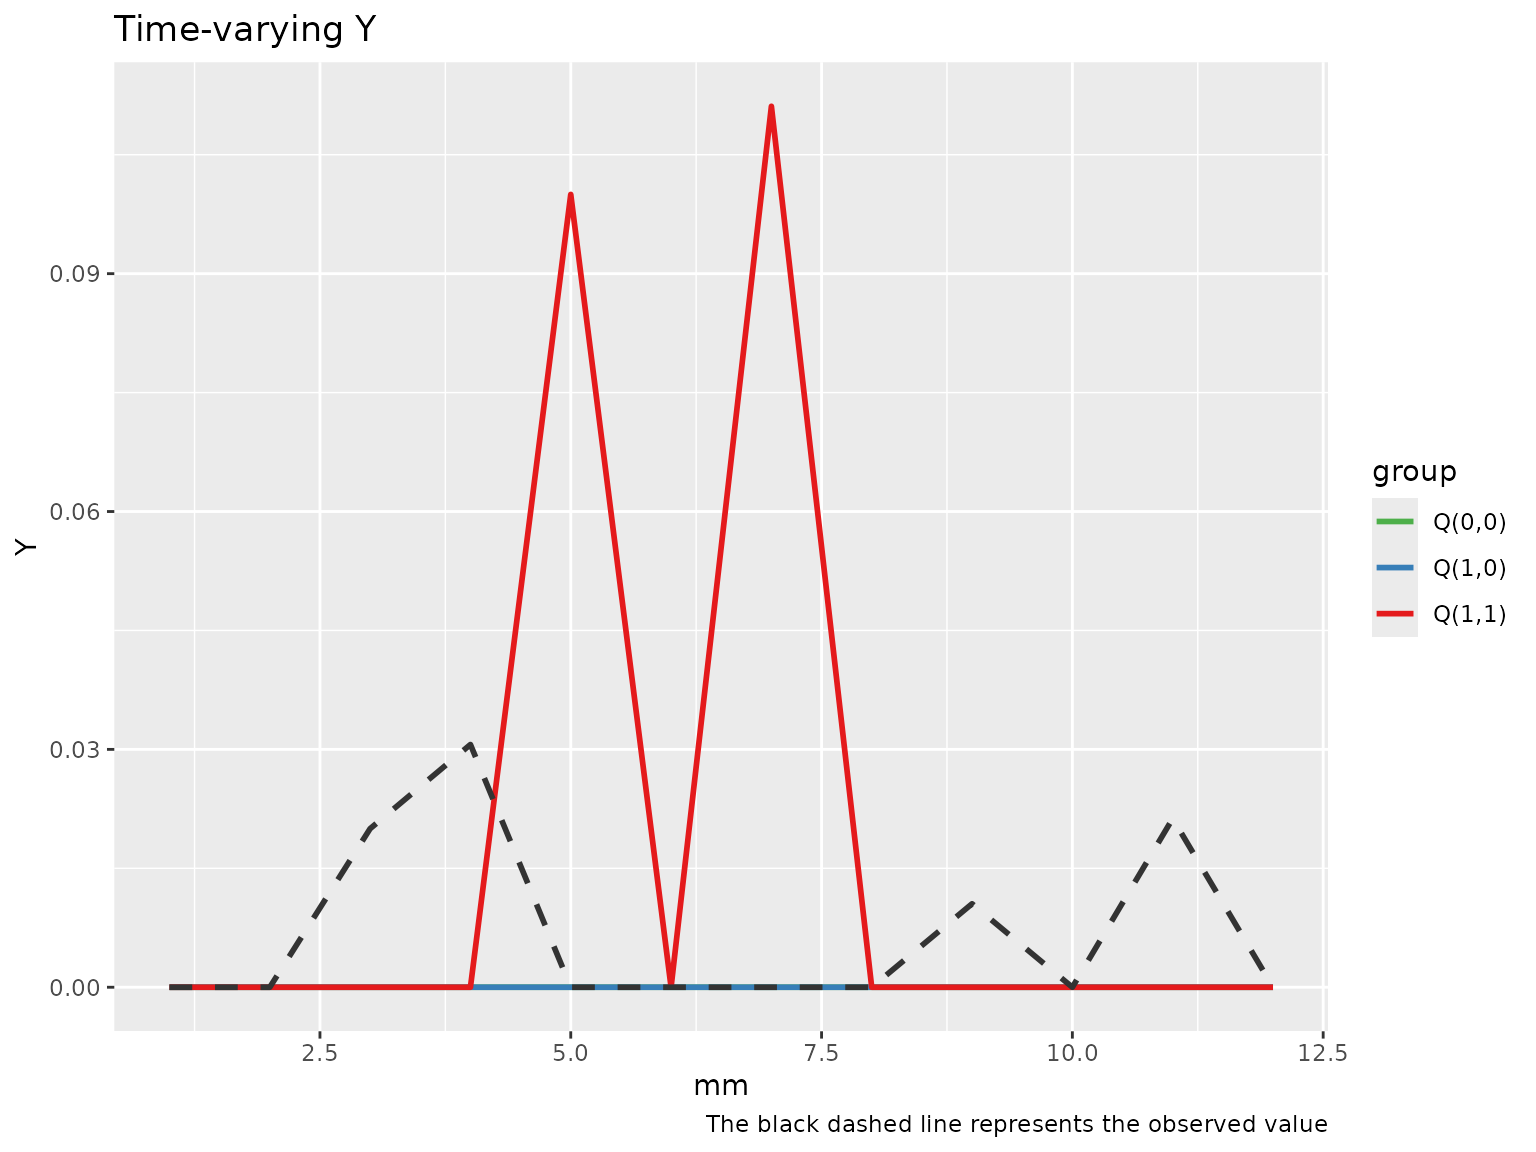
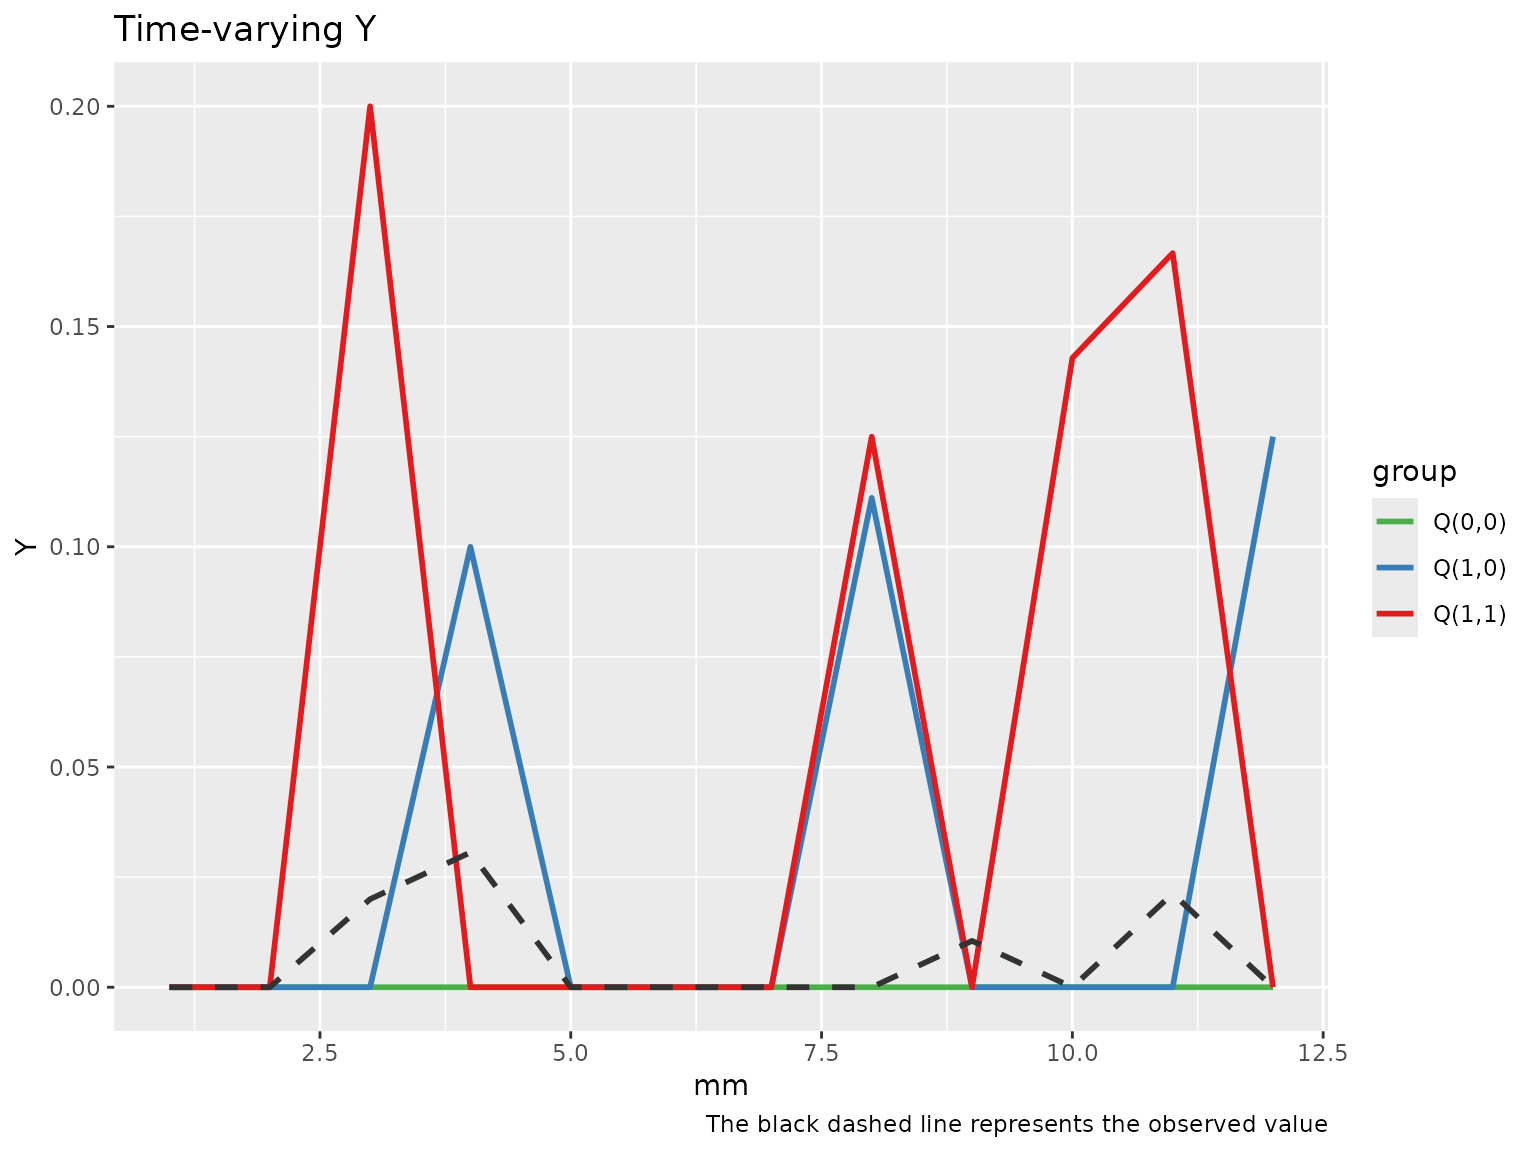
Deploying to gh-pages from @ causalepi/tvmedg@73244115857968024a8cc11e31e001a0058be521 🚀

diff --git a/articles/single_mediator.html b/articles/single_mediator.html
@@ -99,7 +99,14 @@ parallel computing using the <code>foreach</code> and
 <code>doParallel</code> packages to improve efficiency</p>
 <div class="sourceCode" id="cb1"><pre class="downlit sourceCode r">
 <code class="sourceCode R"><span><span class="kw"><a href="https://rdrr.io/r/base/library.html" class="external-link">library</a></span><span class="op">(</span><span class="va"><a href="https://causalepi.github.io/tvmedg/">tvmedg</a></span><span class="op">)</span></span>
-<span><span class="fu"><a href="https://rdrr.io/r/utils/head.html" class="external-link">head</a></span><span class="op">(</span><span class="va">sim_data</span><span class="op">)</span></span></code></pre></div>
+<span><span class="fu"><a href="https://rdrr.io/r/utils/head.html" class="external-link">head</a></span><span class="op">(</span><span class="va">sim_data</span><span class="op">)</span></span>
+<span><span class="co">#&gt;   id mm Ap Mp L1       L2        L3 Yp      age sex ow risk lastid</span></span>
+<span><span class="co">#&gt; 1  1  1  0  0  0 100.0000  80.00000  0 16.52949   0  0    0      0</span></span>
+<span><span class="co">#&gt; 2  1  2  0  0  0 125.1296 102.02885  0 16.52949   0  0    0      0</span></span>
+<span><span class="co">#&gt; 3  1  3  0  0  0 116.4990  98.99688  0 16.52949   0  0    0      0</span></span>
+<span><span class="co">#&gt; 4  1  4  0  0  0 131.9247 104.07117  0 16.52949   0  0    0      0</span></span>
+<span><span class="co">#&gt; 5  1  5  0  0  0 109.5959 103.24813  0 16.52949   0  0    0      0</span></span>
+<span><span class="co">#&gt; 6  1  6  0  0  0 124.2403  95.82793  0 16.52949   0  0    0      0</span></span></code></pre></div>
 <div class="section level3">
 <h3 id="point-estimates">Point estimates<a class="anchor" aria-label="anchor" href="#point-estimates"></a>
 </h3>
@@ -132,6 +139,9 @@ these arguments to model nonlinear effects. Lastly, we run the algorithm
 using 1000 Monte Carlo samples.</p>
 <div class="sourceCode" id="cb2"><pre class="downlit sourceCode r">
 <code class="sourceCode R"><span><span class="kw"><a href="https://rdrr.io/r/base/library.html" class="external-link">library</a></span><span class="op">(</span><span class="va"><a href="https://github.com/RevolutionAnalytics/doparallel" class="external-link">doParallel</a></span><span class="op">)</span></span>
+<span><span class="co">#&gt; Loading required package: foreach</span></span>
+<span><span class="co">#&gt; Loading required package: iterators</span></span>
+<span><span class="co">#&gt; Loading required package: parallel</span></span>
 <span></span>
 <span><span class="va">cl</span> <span class="op">&lt;-</span> <span class="fu"><a href="https://rdrr.io/r/parallel/makeCluster.html" class="external-link">makeCluster</a></span><span class="op">(</span><span class="fl">2</span><span class="op">)</span></span>
 <span><span class="fu"><a href="https://rdrr.io/pkg/doParallel/man/registerDoParallel.html" class="external-link">registerDoParallel</a></span><span class="op">(</span><span class="va">cl</span><span class="op">)</span></span>
@@ -156,6 +166,14 @@ using 1000 Monte Carlo samples.</p>
 <span>                   montecarlo <span class="op">=</span> <span class="fl">10</span>,</span>
 <span>                   boot <span class="op">=</span> <span class="cn">F</span>,</span>
 <span>                   parallel <span class="op">=</span> <span class="cn">TRUE</span><span class="op">)</span></span>
+<span><span class="co">#&gt; Q(a,a): 0.5 </span></span>
+<span><span class="co">#&gt; Q(a,a*): 0.3 </span></span>
+<span><span class="co">#&gt; Q(a*,a*): 0 </span></span>
+<span><span class="co">#&gt; Indirect (rIE): 0.2 </span></span>
+<span><span class="co">#&gt; Direct (rDE): 0.3 </span></span>
+<span><span class="co">#&gt; Total (rTE): 0.5 </span></span>
+<span><span class="co">#&gt; Proportional explain: 0.4 </span></span>
+<span><span class="co">#&gt; Total time elapsed: 4.710823 secs</span></span>
 <span><span class="fu"><a href="https://rdrr.io/r/parallel/makeCluster.html" class="external-link">stopCluster</a></span><span class="op">(</span><span class="va">cl</span><span class="op">)</span></span></code></pre></div>
 </div>
 <div class="section level3">
@@ -196,6 +214,14 @@ example, we run only 5 bootstrap iterations.</p>
 <span>                   nboot <span class="op">=</span> <span class="fl">5</span>,</span>
 <span>                   ci <span class="op">=</span> <span class="fl">.95</span>,</span>
 <span>                   parallel <span class="op">=</span> <span class="cn">TRUE</span><span class="op">)</span></span>
+<span><span class="co">#&gt; Q(a,a): 0.6 (0.06, 1) </span></span>
+<span><span class="co">#&gt; Q(a,a*): 0.6 (0.01, 1) </span></span>
+<span><span class="co">#&gt; Q(a*,a*): 0 (0, 0.55) </span></span>
+<span><span class="co">#&gt; Indirect (rIE): 0 (0, 0.73) </span></span>
+<span><span class="co">#&gt; Direct (rDE): 0.6 (-0.54, 1) </span></span>
+<span><span class="co">#&gt; Total (rTE): 0.6 (-0.48, 1) </span></span>
+<span><span class="co">#&gt; Proportional explain: 0 (0, 0.917) </span></span>
+<span><span class="co">#&gt; Total time elapsed: 19.87348 secs</span></span>
 <span><span class="fu"><a href="https://rdrr.io/r/parallel/makeCluster.html" class="external-link">stopCluster</a></span><span class="op">(</span><span class="va">cl</span><span class="op">)</span></span></code></pre></div>
 </div>
 <div class="section level3">
@@ -221,9 +247,11 @@ under each scenario.</p></li>
 <p><strong>Time-varying plot</strong></p>
 <div class="sourceCode" id="cb4"><pre class="downlit sourceCode r">
 <code class="sourceCode R"><span><span class="fu"><a href="https://rdrr.io/r/graphics/plot.default.html" class="external-link">plot</a></span><span class="op">(</span><span class="va">med_MtoL</span>, <span class="st">"tvY"</span><span class="op">)</span></span></code></pre></div>
+<p><img src="single_mediator_files/figure-html/unnamed-chunk-5-1.png" width="100%"></p>
 <p><strong>Cumulative plot</strong></p>
 <div class="sourceCode" id="cb5"><pre class="downlit sourceCode r">
 <code class="sourceCode R"><span><span class="fu"><a href="https://rdrr.io/r/graphics/plot.default.html" class="external-link">plot</a></span><span class="op">(</span><span class="va">med_MtoL</span>, <span class="st">"cumY"</span><span class="op">)</span></span></code></pre></div>
+<p><img src="single_mediator_files/figure-html/unnamed-chunk-6-1.png" width="100%"></p>
 </div>
   </main><aside class="col-md-3"><nav id="toc" aria-label="Table of contents"><h2>On this page</h2>
     </nav></aside>
